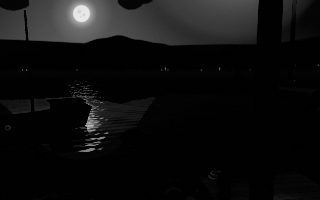
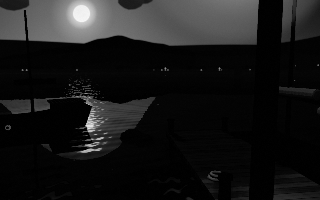
夜晚: 酒樓繁華的夜晚調亮（年代的夜間曝光 ×1.75），不再太黑

diff --git a/src/game/night.js b/src/game/night.js
@@ -144,6 +144,7 @@ export const NIGHT_ERAS = {
     // 燈籠多、光暈大：夜裡調小一點，不然一團一團的光暈讓整條街像蒙了一層霧
     lanternGlow: 0.6,
     lift: 0.04,
+    exposure: 1.75,
     windowTint: '#ffb866',
     tintAmount: 0.4,
     electric: true,
@@ -209,6 +210,8 @@ export function nightNumber(key, value, amount, eraNight = null) {
   if (target !== undefined) v = value + (target - value) * t
   const m = NIGHT_LOOK.mul[key]
   if (m !== undefined) v *= 1 + (m - 1) * t
+  // 年代的夜晚曝光（酒樓繁華騎樓深、街面暗，夜裡要亮一點才看得到）
+  if (key === 'exposure' && eraNight?.exposure) v *= 1 + (eraNight.exposure - 1) * t
   return v
 }
 

diff --git a/README.md b/README.md
@@ -1224,7 +1224,7 @@ node tests/e2e/era-switching.e2e.mjs http://127.0.0.1:4173/
 
 ## 測試狀態
 
-- 夜晚與雨夜偏灰的修正（第 14 階段，只在精緻畫質）：雨夜時雨天的霧、空氣、河面薄霧、暈影與降低的對比、飽和、曝光只套用兩成（`atmosphere.js` 的 `RAIN_HAZE_KEYS`）；夜晚的光暈加強 0.25 → 0.1、酒樓繁華夜裡的燈籠 0.8 → 0.6。另補上第 14 階段 25 筆出處的英文欄位（和英文版 #77 合併後 `englishCoverage` 測試會擋）。`npm test` 1036 項全部通過；前後對照 `docs/lookbook/night-gray/`。
+- 夜晚與雨夜偏灰的修正（第 14 階段，只在精緻畫質）：雨夜時雨天的霧、空氣、河面薄霧、暈影與降低的對比、飽和、曝光只套用兩成（`atmosphere.js` 的 `RAIN_HAZE_KEYS`）；夜晚的光暈加強 0.25 → 0.1、酒樓繁華夜裡的燈籠 0.8 → 0.6、曝光 ×1.75（使用者反映太黑看不到）。另補上第 14 階段 25 筆出處的英文欄位（和英文版 #77 合併後 `englishCoverage` 測試會擋）。`npm test` 1036 項全部通過；前後對照 `docs/lookbook/night-gray/`。
 - 隔岸天際線（第 14 階段，只在精緻畫質）：新增 `tests/oppositeBank.test.js` 12 項與 `tests/e2e/skyline.e2e.mjs`（24／24 通過）；`tests/night.test.js` 多 1 項（夜晚的暗部提亮依年代）。繪製呼叫（SwiftShader、1280×800、河岸視角）：精緻畫質每個年代多 2 次（對岸一次、畫進河面倒映一次）：港口商街 205 → 207、酒樓繁華 184 → 186、摩登 184 → 186、庶民生活 192 → 194、老屋新生 183 → 185；流暢畫質不建立、不編譯。同一個 PR 依審查意見調整了夜晚：港口商街的河岸整片偏灰霧，原因是暗部提亮（`lift`）、往月亮方向的月暈色與河面薄霧；改成暗部提亮依年代（清末 0.012、酒樓繁華 0.04、摩登 0.035、其他 0.025）、月暈色 0.03、河面薄霧 0.18，前後對照在 `docs/lookbook/night/after/`（調整前）與 `tuned/`（調整後）。夜晚 0 時光線仍逐位不變。前後對照 `docs/lookbook/skyline/`。**沒有在桌面實機量幀率**；iPad 不受影響。
 - 夜晚（第 14 階段，只在精緻畫質）：新增 `tests/night.test.js` 12 項與 `tests/e2e/night.e2e.mjs`（41／41 通過）；既有測試不需修改。繪製呼叫（SwiftShader、1280×800、一個影格所有 pass 的總數）：**流暢畫質帶不帶 `?time=night` 完全相同**（港口商街 161／161、摩登 163／163）；精緻畫質白天 → 夜晚，街道遠景：港口商街 187 → 194（+7）、酒樓繁華 212 → 213（+1）、摩登 184 → 185（+1）、庶民生活 225 → 232（+7）、老屋新生 276 → 285（+9）；河岸 235 → 245、201 → 202、198 → 199、205 → 211、189 → 204。多出來的是月亮一次，加上白天的年代入夜後開始做燈光落點那一趟；河岸多的是月亮與燈火畫進河面倒映。前後對照 `docs/lookbook/night/`（`after-rain/` 是雨夜）。**沒有在桌面實機量幀率**；iPad 不受影響（流暢畫質不掛載）。
 - 雨天（第 14 階段，只在精緻畫質）：新增 `tests/weather.test.js` 24 項與 `tests/e2e/weather.e2e.mjs`（48／48 通過）；既有測試不需修改（`tests/reliefReflection.test.js` 鎖住的水面著色器逐字不變，雨點漣漪只加在有倒影的那一份）。`npm test` 1003 項全部通過、`npm run build` 成功。繪製呼叫（Playwright Chromium headless、SwiftShader、1280×800，固定鏡頭的街道遠景，一個影格所有 pass 的總數）：**流暢畫質帶不帶 `?weather=rain` 完全相同**（酒樓繁華 184／184、庶民生活 200／200）；精緻畫質晴天 → 雨天：港口商街 187 → 208（+21）、酒樓繁華 212 → 236（+24）、庶民生活 225 → 253（+28）、老屋新生 276 → 308（+32）；多出來的是積水倒影那一趟（牆、屋頂、窗、燈火、招牌）、濕地面一趟、雨絲與屋簷滴水各一次，遮雨高度圖只在換年代時畫一次。前後對照 `docs/lookbook/rain/`。**沒有在桌面實機量幀率**（SwiftShader 只能看相對值），也沒有人耳試聽雨聲；iPad 不受影響（流暢畫質不掛載）。
